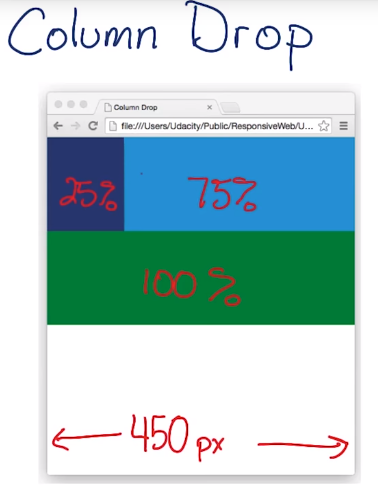
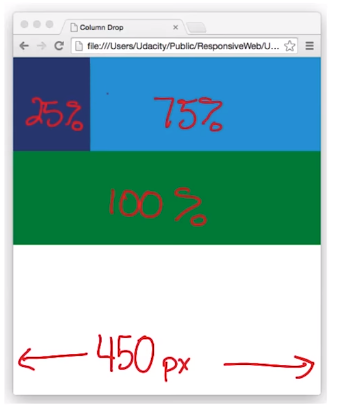
docs: Update images 4-2 thru 4-11 to remove text

diff --git a/docs/course-notes/responsive-web-design-fundamentals.md b/docs/course-notes/responsive-web-design-fundamentals.md
@@ -763,7 +763,7 @@ Let's break them down one by one. I'm going to show you how these patterns work,
 **Column Drop** is probably the easiest.
 
 [![rwdf4-2](../assets/images/sm_rwdf4-2.jpg)](../assets/images/full-size/rwdf4-2.png)
-[Live Sample - Column Drop (https://codepen.io/james-priest/pen/KRXeKo)](https://codepen.io/james-priest/pen/KRXeKo)
+Live Sample - [Column Drop Pattern](https://codepen.io/james-priest/pen/KRXeKo)
 
 At its narrowest viewport, each element simply stacks vertically, one on top of the other.
 
@@ -842,7 +842,7 @@ Let's try it in the browser. We're all stacked at 400 pixels. At 450, our layout
 The **Mostly Fluid** pattern, is very similar to *Column Drop*, but it tends to be a bit more grid like With more columns, and columns fitting in different ways, depending on the viewport width.
 
 [![rwdf4-7](../assets/images/sm_rwdf4-7.jpg)](../assets/images/full-size/rwdf4-7.png)
-[Live Sample - Mostly Fluid (https://codepen.io/james-priest/pen/XqeYjQ)](https://codepen.io/james-priest/pen/XqeYjQ)
+Live Sample - [Mostly Fluid Pattern](https://codepen.io/james-priest/pen/XqeYjQ)
 
 Just like column drop, at its narrowest viewport, the layout is stacked, but as the layout gets wider, the grid pattern starts to appear. 
 
